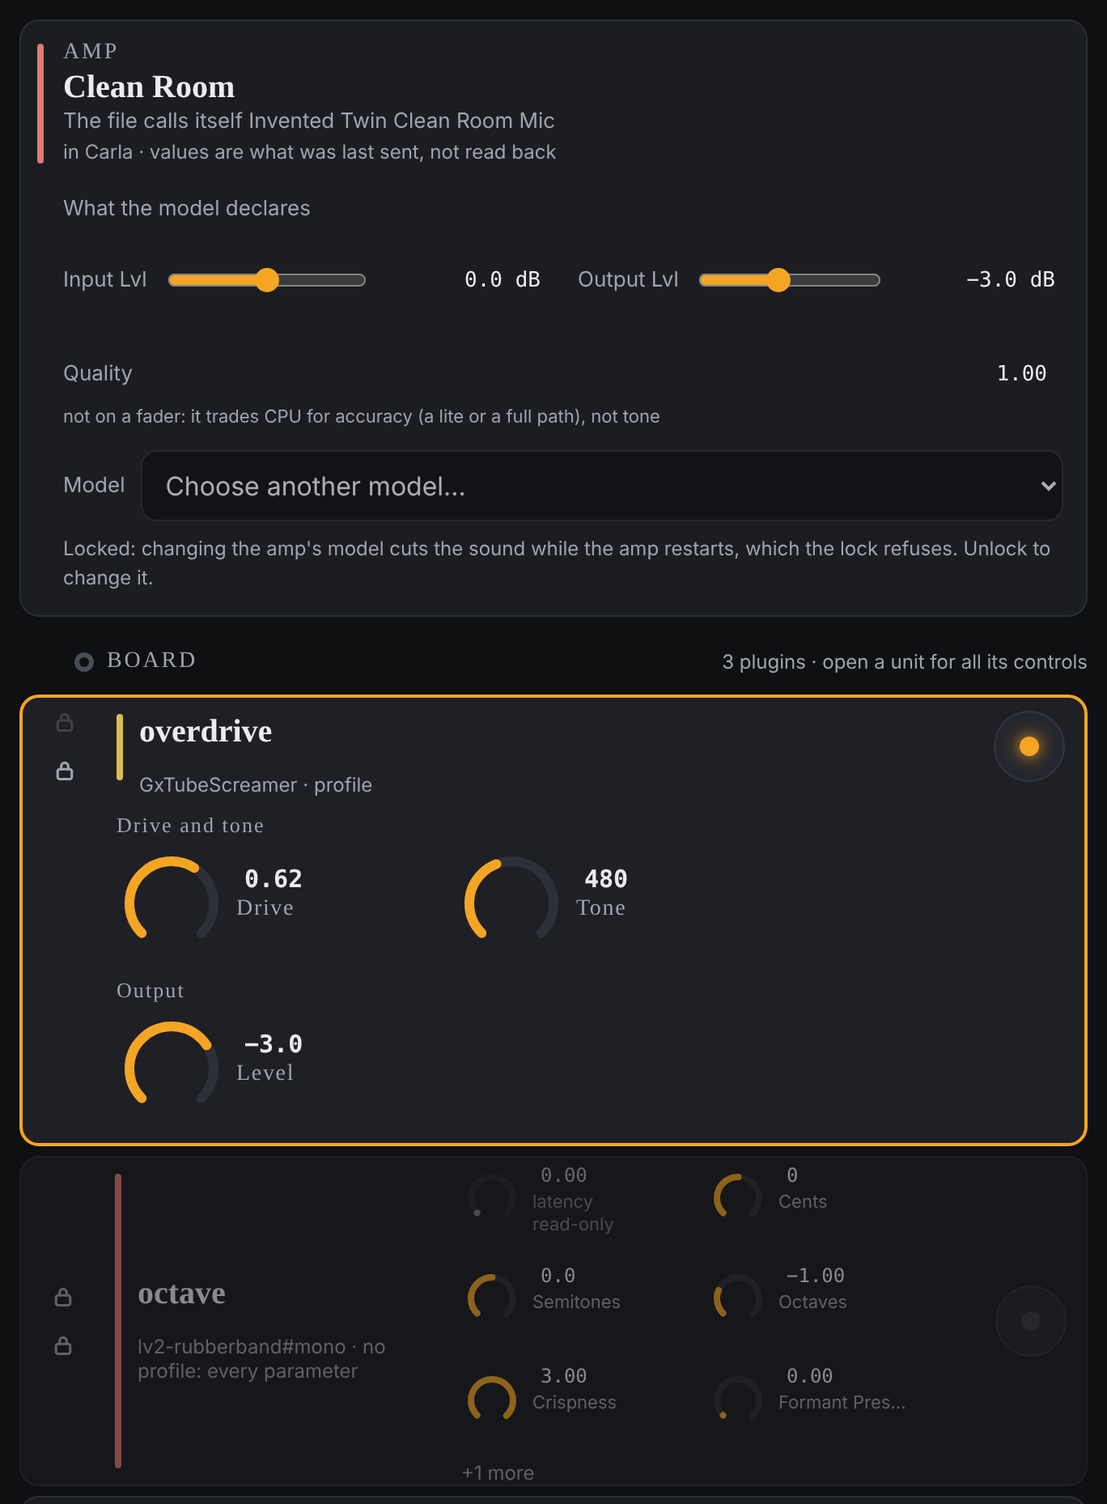
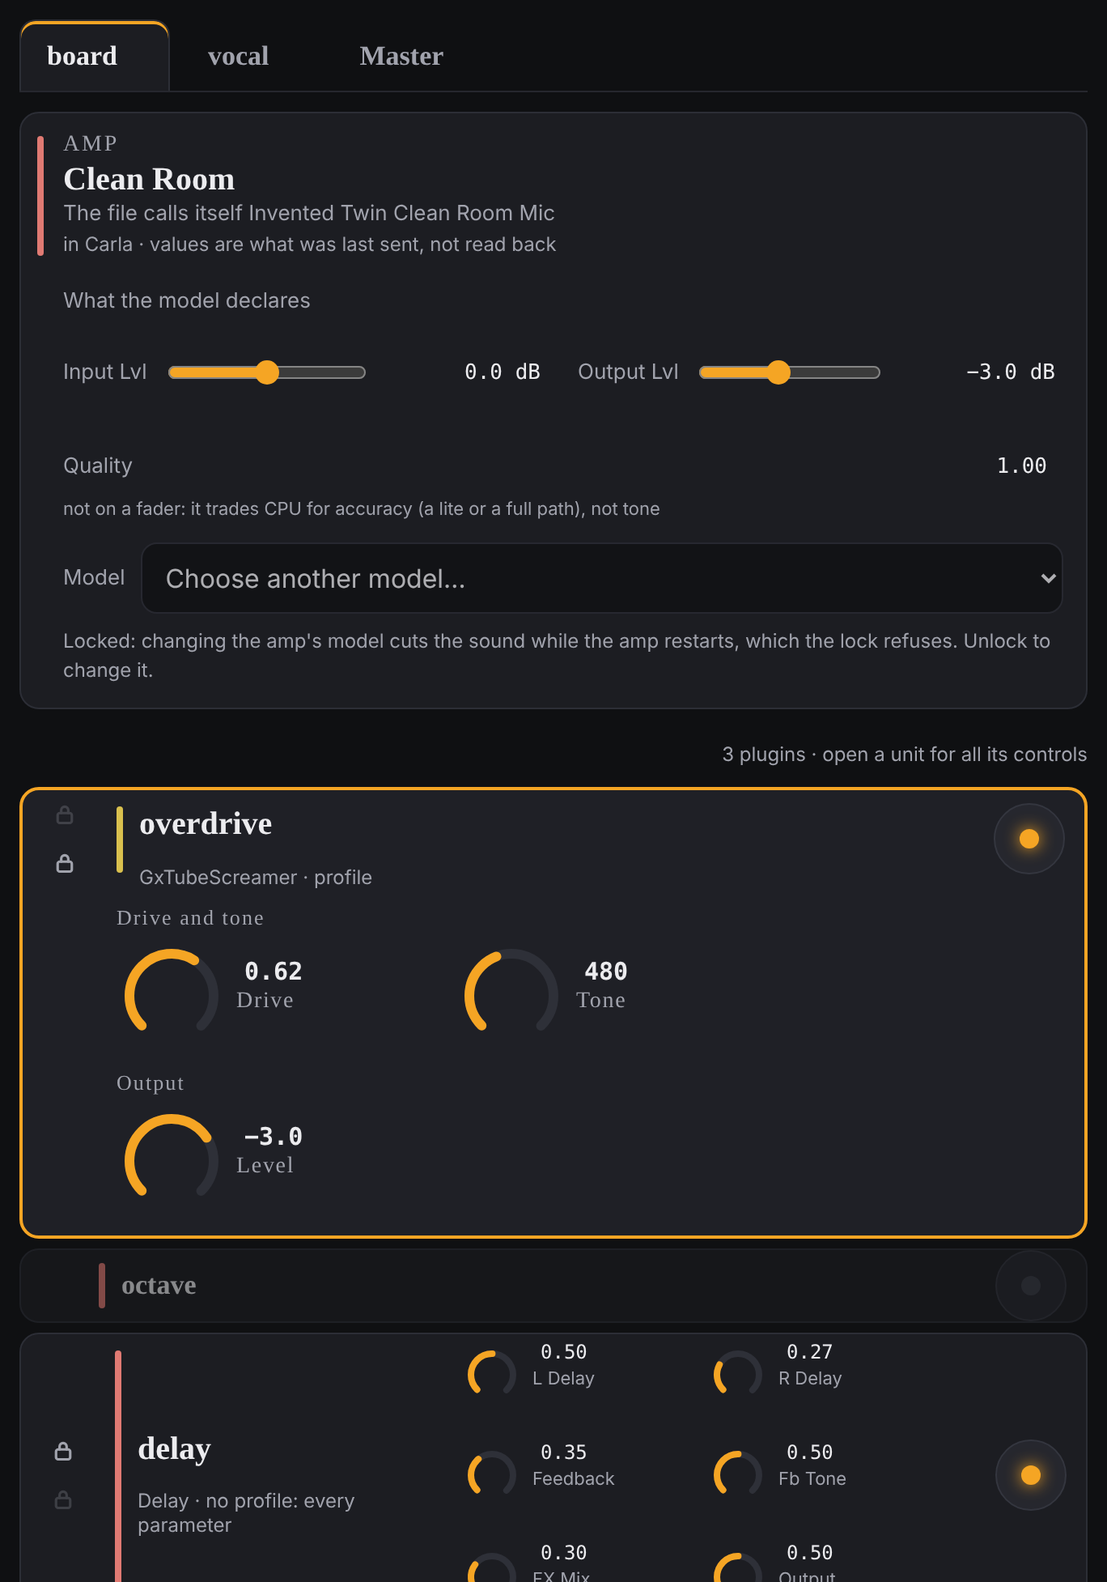
Rack tabs: the guides, the reference, the pictures and the MANIFEST (#135)
After merging master (the docs rewrite, #146): shaping-a-sound.md gains
"Pick the channel to work on" and what a bypassed plugin's slim row is and
how to open it; mixing.md says a strip's name opens its tab; the web UI
reference describes the tabs, the minimised rows and what a closed tab
still says; the rack's alt text follows. Retaken: docs/guide/img/rack.png
and shaping-a-sound.png with guide_shots.py (whose shaping shot now runs
from the tabs to the delay), and docs/ui/rack.png by hand. MANIFEST: a
dated entry with every choice the issue left open and what was not run.

Claude-Session: https://claude.ai/code/session_019Pcg2R4ZAgHxiixbiur9hj

diff --git a/tool/tests/guide_shots.py b/tool/tests/guide_shots.py
@@ -142,13 +142,15 @@ def shots(browser) -> list[str]:
         shoot(page, "stage-phone.png")
         context.close()
 
-    # Shaping a sound: the amp's card and a plugin opened for all its controls.
+    # Shaping a sound: the tabs, the amp's card in its channel's tab, a plugin
+    # opened for all its controls, and a bypassed one as a slim row.
     with Served(amp=True) as served:
         context, page = page_of(browser, served.url + "/", {"width": 1280, "height": 1100})
         page.wait_for_selector(".unit")
+        page.wait_for_selector(".amp-card .fader")
         page.click("article.unit[data-unit=overdrive] button.name")
         time.sleep(SETTLE)
-        shoot(page, "shaping-a-sound.png", clip=span(page, "section.amp-card", "article.unit[data-unit=octave]"))
+        shoot(page, "shaping-a-sound.png", clip=span(page, "div.tabs", "article.unit[data-unit=delay]"))
         context.close()
     return made
 

diff --git a/docs/reference/web-ui.md b/docs/reference/web-ui.md
@@ -9,7 +9,7 @@ sushi-rig agent                      # then open http://127.0.0.1:8029/ (the rac
                                      # or http://127.0.0.1:8029/#stage (the stage screen; the default on a phone)
 ```
 
-![The rack as a mixing desk: the master volume in the header; on the left a strip per channel with its input and a volume fader; the chains in the middle, the overdrive open with its profile's groups and each knob's value as a text field; on the right the rigs of config/rigs, Undo, Save with a count of the unsaved changes, Save as, Revert, and the takes](../ui/rack.png)
+![The rack as a mixing desk: the master volume in the header; on the left a strip per channel with its input and a volume fader, the board's marked as the open tab's, and the master's strip; in the middle the tabs board, vocal and Master, and under them the board's chain, the overdrive open with its profile's groups and each knob's value as a text field, the bypassed octave a slim row, and the delay; on the right the rigs of config/rigs, Undo, Save with a count of the unsaved changes, Save as, Revert, and the takes](../ui/rack.png)
 
 <img src="../ui/stage.png" alt="The stage screen at phone width: the rig's name and state, the master volume, load and xruns from pw-top, each channel's volume as a fader, one card per plugin with a big bypass switch, and the lock, with start, stop and switch hidden while it is on" width="300">
 
@@ -21,12 +21,12 @@ no Node and the UI has to run from a checkout. Two screens from the mockups
 - **The rack (S1), laid out as a mixing desk (2026-11-06).** Three columns,
   because that is how a desk is read: a **strip per channel on the left** (its
   name, a small, quiet input line, and its volume as the large part, then a
-  strip for the master, which leads to its chain), **the
-  chains and the amp in the middle**, the widest part, and **the files on the
+  strip for the master), **one chain at a time in the middle**, the widest
+  part, behind a tab per channel and Master (below), and **the files on the
   right**: the rig picker, New rig…, Start, Stop and Switch, Undo, Save,
   Save as…, Revert…, and the takes. The **master volume is in the header**,
   not in a column. At phone width the columns stack in that order, strips
-  first, since volume is what a hand reaches for. Every chain is a row of
+  first, since volume is what a hand reaches for. A chain is a row of
   plugin cards, each with its knobs: the profile's controls in its groups and
   labels for a plugin that has one (`tool/examples/profiles/`), every
   parameter in a plain list for one that does not. Values are in the plugin's
@@ -38,6 +38,61 @@ no Node and the UI has to run from a checkout. Two screens from the mockups
   of changes and the per-knob "was" are gone. Undo stays, above Save: it is an
   action, not a view of history. A browser test compares every element's box
   before and after four changes.
+- **A tab per channel, and bypassed plugins minimised (#135, 2026-11-15).**
+  The middle column is a tablist: **one tab per channel in the rig's order,
+  then Master**, and the open tab's chain under them, nothing of another
+  channel's. A rig of one channel has two tabs, so the layout is the same on
+  every rig of channels; a v1 run has a tab per track and no Master; with no
+  rig up there are no tabs, and while a command runs the tabs stay as they
+  were, as the strips do. **The strips stay together**, since they are the
+  mix: a strip's name is a button that opens its tab (so is a tap on the strip
+  that lands on nothing else; its fader, its value and Change input are their
+  own gestures and do not), the master's strip opens Master, and the open
+  tab's strip is marked. On a phone a strip tapped also brings the tabs into
+  view, since the chain is below the strips. **The amp's card is in one tab**,
+  the channel it is in front of: the first channel the running rig's file
+  plays from `guitar-in` (`patchbay.GUITAR_ROLE`, read from `GET
+  /rigs/<rig>/channels`), the first channel where the file does not say or
+  cannot be read or there is none (a v1 run); while the file is still being
+  read the card waits, rather than be drawn in one tab and then another.
+  **The open tab is remembered per device**, in the browser's storage, as one
+  record of the rig and the tab (`sushi-rig.tab`): a reload comes back to it,
+  another rig opens on its first channel (even one seen before), as does a
+  remembered channel the rig no longer has, and a browser that refuses storage
+  remembers nothing and works. **A bypassed plugin is a slim row**: its name,
+  its switch and its mono badge, in its place in the chain. Switching it on
+  opens it and switching it off minimises it, **from anywhere**: every page
+  follows the bypass it reads, so a pedal's or another device's shows within a
+  poll. Its name is a button (`aria-expanded`): on a slim row it, or a tap on
+  the row, **opens the row without switching it on**, with all its controls,
+  to set it up; that lasts until the name is tapped again or the tab changes.
+  On a row that is on, the name shows all the controls or the main ones, as
+  before. A plugin being used when its bypass arrives (a knob mid-drag, a
+  value half typed) is not minimised under the hand: its row stays open as one
+  tapped open does. A slim row has no move buttons: open it to move it.
+  **Nothing moves on a poll**: a row changes size only when its bypass changes
+  or the player taps it, and a browser test compares every element's box
+  across values changing on an open row, a slim row and a closed tab. **A
+  view change never interrupts a gesture**: each plugin's row is drawn on its
+  own, and a bypass only hides or shows what the row already holds, so a
+  bypass from a pedal, a neighbour opening, or a plugin added, removed or
+  moved from elsewhere rebuilds nothing under a drag or a half-typed value
+  (the rows are put in their new order round the one that holds the focus).
+  Tabs and opening a row are **allowed while locked**: they change what is
+  shown, not the rig. **Nothing that matters is behind a closed tab**: the
+  problem boxes (a refusal, a child that exited) are above the tabs; and a
+  tab carries a red dot, with the reason as its title, while a change to one
+  of its plugins stands refused or its amp is not playing (Carla not running,
+  the amp unreadable, a problem with its model), which the amp's card alone
+  said. Undo, Save, the unsaved count and Revert take no notice of the tab: a
+  change on a closed tab counts and is undone as any other. The keyboard: the
+  tabs are `role="tab"` in a `tablist`, the open one alone in the tab order,
+  the left and right arrows, Home and End move and open, and the panel is a
+  `tabpanel` labelled by its tab. The decisions are rig.js's (`rackTabs`,
+  `openTab`, `rememberedTab`, `tabKey`, `ampTab`, `tabMarks`, `unitRow`,
+  `unitTapped`, `bypassSeen`), tested on their own and through the page in
+  `tool/tests/test_ui_tabs.py`. The stage screen is unchanged: its cards do
+  not minimise.
 - **Knobs that can be set (2026-11-06).** A knob is dragged **vertically, 320
   px for its whole travel**, with the pointer
   captured, so leaving the knob mid-drag does not drop it; **shift, or a
@@ -103,8 +158,8 @@ no Node and the UI has to run from a checkout. Two screens from the mockups
   or by restart, and why. While a command runs, from this page or another,
   nothing else is offered and what is running is said; a refusal shows the
   agent's reason.
-- **The amp.** A card at the top of the rack, since the amp is in front of the
-  board: the model's name and what it declares, faders for Input and Output in
+- **The amp.** A card at the top of its channel's tab (above), since the amp
+  is in front of the board: the model's name and what it declares, faders for Input and Output in
   dB, Quality shown but not on a fader (it trades CPU for accuracy, not tone),
   and a model picker that takes a confirm saying the sound cuts out for a
   moment, refused while locked. Values are labelled as what was last sent,
@@ -290,6 +345,12 @@ rig screen and a channel's input change, and the knobs' feel on the rig's
 touch screen. Nor is the page recorded as opened from a phone's own browser
 (MANIFEST, 2026-11-02): the stage screen is tested at a phone's width in
 Chromium.
+
+Not run on the rig (2026-11-15): the tabs and the minimised rows (#135). They
+are tested in headless Chromium against the fake rig, where a tap is a click
+and "a pedal" is the fake Sushi's bypass changed under the agent: not on the
+rig's touch screen, not from a phone, and not with a real pedal's bypass
+arriving through the MIDI listener.
 
 ## Trying it without a rig
 

diff --git a/docs/guide/shaping-a-sound.md b/docs/guide/shaping-a-sound.md
@@ -1,23 +1,46 @@
 # Shaping a sound
 
-This is how you change what the rig sounds like: open a plugin, turn its knobs,
-switch it off and on, change its place in the chain, set the amp, and take a
-change back. All of it is on the **rack**, the main page.
+This is how you change what the rig sounds like: pick a channel, open a plugin,
+turn its knobs, switch it off and on, change its place in the chain, set the
+amp, and take a change back. All of it is on the **rack**, the main page.
 
 A **plugin** is one effect: a compressor, an overdrive, a delay. A channel's
 plugins sit in a row, in the order the sound passes through them; that row is
 its **chain**. The page calls a plugin's box a "unit".
 
-![The middle of the rack: the amp's card with its model, Input Lvl and Output Lvl faders and Model list, then the board channel with the overdrive opened to show all its knobs in groups, and a bypassed octave under it](img/shaping-a-sound.png)
+![The middle of the rack: three tabs, board, vocal and Master, with board open; under them the amp's card with its model, Input Lvl and Output Lvl faders and Model list, then the board's chain: the overdrive opened to show all its knobs in groups, the bypassed octave as a slim row with only its name and its round button, and the delay](img/shaping-a-sound.png)
 
 Every change is heard at once. None of it is kept until you save: see
 [Saving and going back](saving.md).
 
+## Pick the channel to work on
+
+The middle of the rack shows one channel's chain at a time. Above it is a row
+of tabs: one for each channel, named as the channel is, then **Master**, the
+chain the finished mix passes through.
+
+- Click a tab to see that channel's plugins. Nothing from another channel is
+  on the screen with them.
+- Or click a channel's name in its strip on the left: it opens the same tab.
+  The strip called **master** opens **Master**. The strip of the chain you are
+  looking at has an amber edge.
+- With the keyboard: click a tab, then use the left and right arrow keys, or
+  Home and End.
+
+The strips on the left stay where they are whichever tab is open, so every
+volume is always in reach. Moving a fader does not change the tab.
+
+Changing tab changes only what you see: every channel keeps playing, and it
+works while the page is **Locked**. The page remembers the tab you were on, on
+that device, so a reload comes back to it. When you switch to another rig it
+opens on the first channel.
+
+A rig with one channel still has two tabs: the channel's and **Master**.
+
 ## Open a plugin and turn a knob
 
-1. In the middle of the rack, find the plugin under its channel's name. Each
-   row shows the plugin's name, a few of its knobs and, on the right, a round
-   bypass button.
+1. Open the plugin's channel's tab. Each row shows the plugin's name, a few of
+   its knobs and, on the right, a round bypass button.
 2. Click the plugin's name. The row opens to show all its controls, in groups.
    Click the name again to close it.
 3. Change a knob in any of these ways:
@@ -41,7 +64,27 @@ for the page yet: it shows every control it has, in a plain list.
 
 Click the round button at the right of the plugin's row. This is **bypass**: it
 switches the effect off without removing it. The button glows when the effect is
-on; the row dims when it is bypassed.
+on.
+
+A bypassed plugin shrinks to a slim, dimmed row: its name, its **mono** mark if
+it has one, and the round button. It keeps its place in the chain, so the
+order still reads as the path the sound takes. Switch it on and it opens again.
+
+The same happens whoever does the switching: a pedal, or another phone or
+laptop. Within a second the row shrinks or opens on every device.
+
+### Set up a plugin without switching it on
+
+Click a slim row's name, or anywhere on the row except its round button. It
+opens with all its controls, still bypassed and still dimmed, so you can set it
+before you bring it in. Click the name again to shrink it. It also shrinks when
+you change tab.
+
+This works while the page is **Locked**.
+
+If a pedal bypasses a plugin while you are dragging one of its knobs or typing
+a value into it, its row stays open under your hand. Click its name when you
+are done.
 
 ## Move a plugin along its chain
 
@@ -50,12 +93,14 @@ on; the row dims when it is bypassed.
 2. Click **▲** or **▼** at the left of the plugin's row to move it one place
    earlier or later.
 
-While the page is locked those two buttons show a padlock.
+While the page is locked those two buttons show a padlock. A slim, bypassed row
+does not show them: open it first.
 
 ## Set the amp
 
-The **AMP** card sits above the chains, because the amp comes before the
-effects. If the rig has no amp, the card says so.
+The **AMP** card is at the top of one tab: the channel the guitar plays
+through, because the amp comes before that channel's effects. It is not on the
+other tabs. If the rig has no amp, the card says so.
 
 - **Input Lvl** and **Output Lvl** are faders, in dB. Drag them, or type a
   value in the box beside them.
@@ -118,6 +163,12 @@ Undo has not yet been tried on the rig itself, only against a stand-in.
 - **A knob shows "refused:" under it, and a box appears starting
   "Not changed:".** The agent would not make the change; the reason is in the
   box and in the knob's tooltip.
+- **A red dot on a tab.** Something behind that tab needs a look: a change
+  there was refused, or the amp has stopped. Hover over the tab to read what,
+  or open it. The boxes at the top of the page are above the tabs and show
+  whichever tab is open.
+- **A plugin you expected is not on the screen.** It is on another channel's
+  tab, or it is bypassed and so a slim row: look for its name.
 - **A box headed "Not moved:" and the plugin's name, with a reason starting
   "Locked:".** You tried to move a plugin while the page is locked. Unlock it
   and try again.

diff --git a/MANIFEST.md b/MANIFEST.md
@@ -3904,3 +3904,54 @@ the name field is narrower than a default name and cuts
 `electric_board-2026-11-14-take-` before its number. Selecting the default on
 a tap is still untried on a real phone, as the entry above says.
 *(2026-11-14)*
+
+**The rack: a tab per channel, and bypassed plugins minimised (#135).** The
+middle of the rack stacked every channel's chain and the master's, each plugin
+at full size, bypassed or not. Now it shows **one chain at a time behind
+tabs**, one per channel in the rig's order and then Master, and **a bypassed
+plugin is a slim row** (its name, its switch, its mono badge) that opens when
+it is switched on, from anywhere, or tapped. The decisions are `rig.js`'s
+(`rackTabs`, `openTab`, `rememberedTab`, `tabKey`, `ampTab`, `tabMarks`,
+`unitRow`, `unitTapped`, `bypassSeen`); `app.js` draws them. What the issue
+and its brief did not settle, and how each was settled: (1) **the amp's tab**
+is the first channel the running rig's file plays from `guitar-in`
+(`patchbay.GUITAR_ROLE`), the first channel where the file does not say; the
+card waits for the file rather than be drawn in one tab and then another.
+(2) **What is remembered** is one record, the rig and the tab, in the
+browser's storage: a rig gone back to opens on its first channel, since the
+issue says the tab "falls back to the first channel when the rig changes".
+(3) **"Tapped open"** is the name's button, as it already was for a plugin
+that is on: on a slim row it opens the row with all its controls, and closes
+it again; a tap anywhere else on a slim row does the same. (4) **A slim row
+has no move buttons**: the issue lists what it holds. (5) **A row in use is
+not minimised under the hand**: a knob mid-drag or a value half typed when
+the plugin is bypassed keeps its row open, as one tapped open, until it is
+closed or the tab changes; a knob merely left focused does not. (6) **A strip
+opens its tab** by its name, now a button, or by a tap on the strip that
+lands on nothing else; its fader, its value and Change input do not, so
+setting one channel's volume does not take the middle column from another's
+chain. (7) **A tab carries a red dot**, its reason in its title, while a
+change to one of its plugins stands refused or its amp is not playing: the
+second was said only on the amp's card, which a closed tab now hides.
+(8) While a command runs the tabs stay as the strips do; with no rig there
+are none. How a gesture survives: each plugin's row is patched on its own
+key, a bypass only hides or shows what the row already holds, and the rows
+are put in a new order round the one holding the focus, so a bypass from
+elsewhere, a neighbour opening, or a plugin added, removed or moved from
+another device rebuilds nothing under a drag or a half-typed value. The stage
+screen is unchanged. Tests: `test_ui_tabs.py`, 6 of the decisions and 30 in
+the browser, among them the frozen guitar_vocal laid out by the real compiler
+(`ui_fake.rig_of`) with the fake's amp; six tests of `test_ui.py` and
+`test_ui_knobs.py` that named every chain on one page now name the open tab's.
+The guides (`shaping-a-sound.md`, `mixing.md`), `docs/reference/web-ui.md`
+and three pictures (`docs/guide/img/rack.png` and `shaping-a-sound.png` by
+`guide_shots.py`, `docs/ui/rack.png` by hand as before) follow. The fast
+suite: 4404 passed, 41 skipped (36 of them this change's). **Not run here:**
+anything on the rig. There is no Sushi, no phone and no touch screen here:
+the page was driven in headless Chromium only, where a tap is a click, so a
+finger's tap on a slim row or a strip, and two fingers at once (one dragging
+a knob while another taps), are untried; "a pedal" in the tests is the fake
+Sushi's bypass changed under the agent, not a pedal through the MIDI
+listener; no other browser (WebKit, Firefox) was tried, nor a browser's own
+scrollbar, which headless Chromium hides and which a row changing height
+could bring or remove; the slow tests and the container job. *(2026-11-15)*

diff --git a/docs/guide/mixing.md b/docs/guide/mixing.md
@@ -18,6 +18,11 @@ microphone is another.
 They are the same faders in both places, and on every device: move one and it
 moves everywhere within a second.
 
+On the rack the strips stay together down the left whichever channel's plugins
+are open in the middle. Clicking a strip's name opens that channel's tab there
+([Shaping a sound](shaping-a-sound.md#pick-the-channel-to-work-on)); moving
+its fader does not.
+
 ## Set a volume
 
 1. Find the fader.
@@ -44,8 +49,9 @@ they are meant to be reached for while you play.
 - **MASTER** is the level of the finished mix, on its way to the monitors.
 
 The strip at the bottom of the left column, **master**, is the mix itself. It
-says how many plugins are on the master's own chain; click its name to jump to
-them. Its volume is the **MASTER** fader in the header.
+says how many plugins are on the master's own chain; click its name to open
+the **Master** tab in the middle and see them. Its volume is the **MASTER**
+fader in the header.
 
 Like any other change, a volume can be taken back with **Undo** and is kept only
 when you save: see [Saving and going back](saving.md).

diff --git a/docs/guide/README.md b/docs/guide/README.md
@@ -39,7 +39,7 @@ The page's messages use a few names of their own:
 | [The audio interface](audio-interface.md) | The iD14's volume fix, and what to do if one side goes quiet |
 | [When something's wrong](troubleshooting.md) | No sound, restarting the agent after an update, `doctor` |
 
-![The rack: the master volume in the header, a strip for each channel on the left, the amp and each channel's plugins in the middle, and the rigs and Save on the right](img/rack.png)
+![The rack: the master volume in the header, a strip for each channel on the left, a tab for each channel and Master in the middle with the open channel's plugins under them, and the rigs and Save on the right](img/rack.png)
 
 The pictures in these guides are of the real page, run against a stand-in rig,
 so the rig's name, its plugins and its values are examples. Yours will differ.

diff --git a/README.md b/README.md
@@ -6,7 +6,7 @@ amp and a chain of LV2 plugins, and back out, with no DAW in the signal path.
 You play it, shape it, save it and record it from a web page on a laptop or a
 phone.
 
-![The rack: the master volume in the header, a strip for each channel on the left, the amp and each channel's plugins in the middle, and the rigs and Save on the right](docs/guide/img/rack.png)
+![The rack: the master volume in the header, a strip for each channel on the left, a tab for each channel and Master in the middle with the open channel's plugins under them, and the rigs and Save on the right](docs/guide/img/rack.png)
 
 ## What it is
 

diff --git a/docs/reference/testing.md b/docs/reference/testing.md
@@ -9,8 +9,8 @@ cd tool && PYTHONPATH=src python -m pytest -rs   # everything, on a machine with
 With the package not installed, put `PYTHONPATH=src` in front of any of them, as
 the last line does.
 
-The web UI's browser tests (`tests/test_ui.py`) need Playwright and a Chromium for
-it; without them those tests skip, and the rest of the file still runs:
+The web UI's browser tests (`tests/test_ui*.py`) need Playwright and a Chromium for
+it; without them those tests skip, and the rest of each file still runs:
 
 ```bash
 pip install -e "tool[ui-test]" && python -m playwright install chromium
